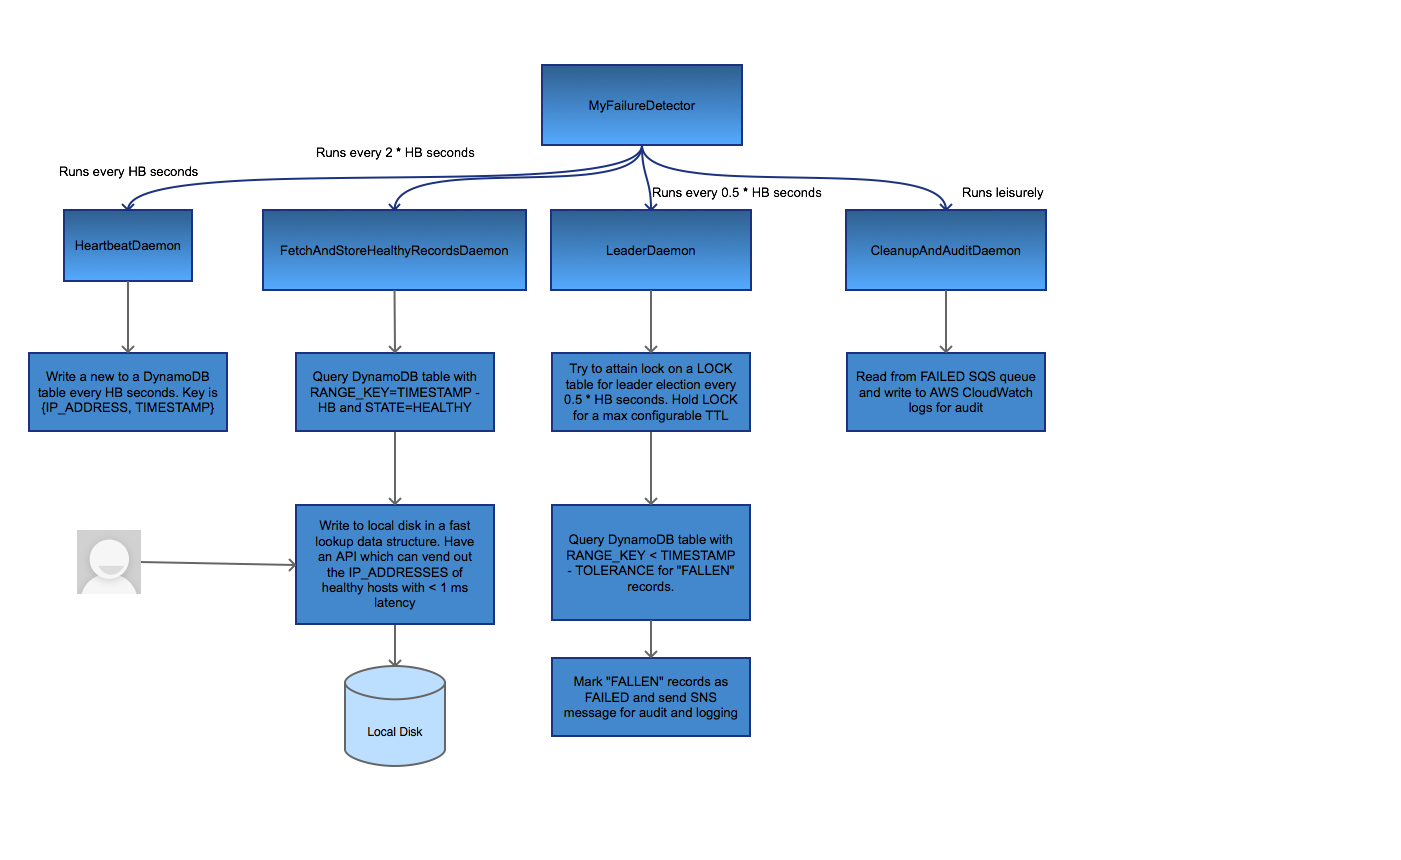
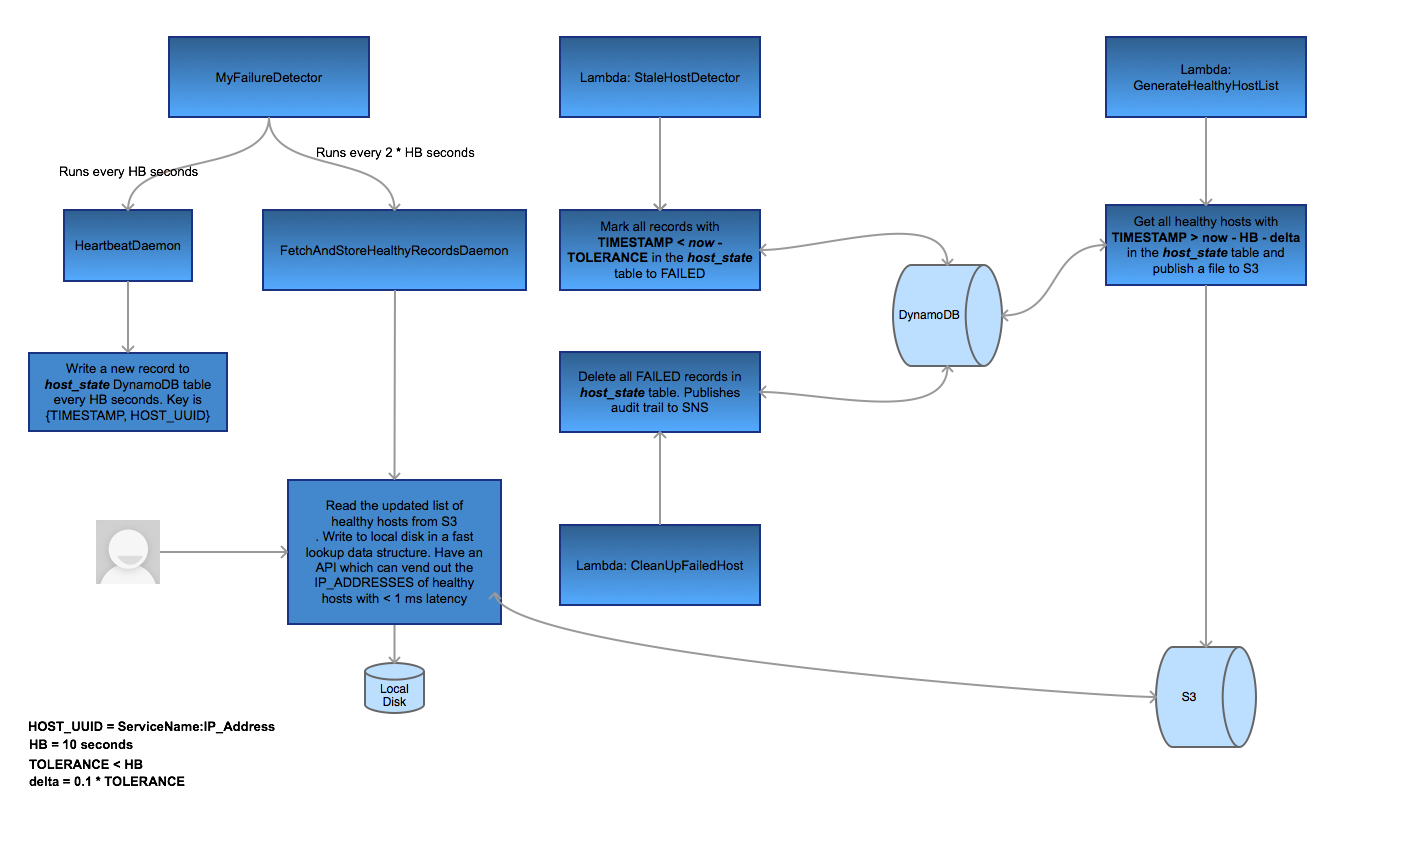
Updated system diagram and readme with lambda and description

diff --git a/README.md b/README.md
@@ -1,21 +1,33 @@
 # MyFailureDetector
-An example of a system to detect healthy host in a clique and get healthy host records with millisecond latencies
+An example of a system to detect healthy host in a clique and get healthy host records with millisecond latencies.
+
+Use case:
+
+Suppose you have a bunch microservices which run in a VPC. Ofcourse, since this is 2018, you run in the cloud. For example: you use AWS. Your service run in a VPC and reach out to public internet to read/write to DynamoDB, S3 and other publicly available services.
+However, to reach out to your internal micro-services (i.e. the ones running in your awesome VPC), there is no need to reach out to the public internet. So, how do you know which machine/host to reach out to for a certain service?
+
+
+Using DNS is an option, but it is static and comes with added latencies for DNS queries. Also, you would have to maintain the updated list of hosts behind the DNS in case your hosts are replaced/terminated etc.
+Since we would need a system to maintain the list of hosts behind DNS, do we even need the DNS? 
+
+Well, the answer is NO. The following example describes, using DynamoDB, S3, AWS Lambda and SNS, a system to maintain a record of healthy hosts in your fleet, such that all your healthy hosts know about all the other healthy hosts in the fleet.  
+
+In comes distributed failure detection and host management. In this system, we assume that AWS is highly available.
 
 ![alt text](https://raw.githubusercontent.com/turbochrgd/MyFailureDetector/master/system-design/MyFailureDetector.png)
 
 
 <h2>Components:</h2>
 
-1. MyFailureDetector : The application itself that heartbeats. Spawns and manages worker threads.
-2. HeartbeatDaemon : Heartbeats into the DynamoDB clique (table). If healthy, will create a new record in DynamoDB. Hash key is IP_ADDRESS and range key is the update timestamp. Will be run by a scheduler every HB (heartbeat) seconds.
-3. FetchAndStoreHealthyRecordsDaemon : Query DyanmoDB clique with RANGE_KEY >= TIMESTAMP - HB and STATE = HEALTHY. Store returned records on non-volatile local disk.
-4. GetHealthyHost API (Not pictured) : Will read the FetchAndStoreHealthyRecords file to maintain a round robin (or health quotient based formula) to return the "best" healthy record to use. Used by clients or users. Will implement this in an upcoming repository.
-5. LeaderDaemon : Keeps the DyanmoDB clique clean by "FAIL"ing all old records. Query DynamoDB clique with RANGE_KEY < TIMESTAMP - TOLERANCE and FAIL then records. Publish SNS notification for cleanup and audit.
-6. CleanupAndAuditDaemon : Reads the "FAIL"ed SNS notifications via SQS and emits logs to CloudWatch
+1. MyFailureDetector : Runs on each of your machine in the VPC. Spawns and manages worker threads: HeartbeatDaemon and FetchAndStoreHealthyRecordsDaemon.
+2. HeartbeatDaemon : Heartbeats into a DynamoDB table. If healthy i.e. running, it will create a new record in DynamoDB. Hash key is the update timestamp and range key is IP_ADDRESS. Will be run by a scheduler every HB (heartbeat) seconds.
+3. FetchAndStoreHealthyRecordsDaemon : Reads the latest healthy records file from S3.  Store returned records on non-volatile local disk.
+4. GetHealthyHost API (Not pictured) : Will read the FetchAndStoreHealthyRecords file to maintain a round robin (or health quotient based formula) to return the "best" healthy record to use. Used by clients or users.
+5. StaleHostDetector Lambda : Lambda to FAIL all old records. Query DynamoDB clique with HASH_KEY < TIMESTAMP - TOLERANCE and FAIL then records. 
+6. GenerateHealthyHostList Lambda : Lambda to generate the latest healthy hosts for your fleet. Reads the DynamoDB table to query records with HASH_KEY > now - HB - delta. Publishes the record list to S3.
+7. CleanupFailedHost Lambda : Removes all FAILED hosts from the DynamoDB table. Keeps the table size small (equivalent to your fleet). Publish SNS notification for cleanup and audit.
 
 <h2>Vocabulary used:</h2>
-
-<strong>Clique</strong> = A set of hosts which were known to be healthy recently
 
 <strong>TIMESTAMP</strong> = the current timestamp in UTC
 
@@ -25,23 +37,10 @@ An example of a system to detect healthy host in a clique and get healthy host r
 
 <strong>HEALTHY</strong> = Host state if the host was able to reach the clique
 
-<strong>FALLEN</strong> = Host state which did not check in with the clique for a certain TOLERANCE interval
-
 <strong>FAILED</strong> = Host state when a host has been removed from the clique
 
 
-<h2>Component workings:</h2>
-
-<strong>HeartbeatDaemon :</strong> Simply write itself in the DynamoDB table. Creates a new record each time with HASH_KEY = IP_ADDRESS and RANGE_KEY = TIMESTAMP. If the DyanmoDB table has a record that is quite old, we will know that host was unable to reach the clique and is possibly unhealthy.
-
-<strong>LeaderDaemon :</strong> Heart beating only writes will records are latest after a certain timestamp. We need to remove all the older records (records with RANGE_KEY < TIMESTAMP + some delta i.e. TOLERANCE) to make sure we remove FALLEN hosts and we don't consume high RCUs during queries for healthy records. Also, older records don't serve any purpose. We need to elect a leader who will clean up the older records. For this purpose, we will use a locking table in DynamoDB. Attaining a lock record in this table which elect a leader. The leader will clean up older records. 
-
-<strong>CleanupAndAuditDaemon :</strong> LeaderDaemon will send FAILED notifications to SNS. The cleanup daemon will create an audit trail and logging in CloudWatch by consuming these notifications.
-
-<strong>FetchAndStoreHealthyRecordsDaemon :</strong> Fetch all the healthy hosts which have checked in to the clique within a certain TOLERANCE. For sake of this design, we will make a thread on the local machine. This job can more efficiently and cheaply run by AWS Lambda.
-
-<strong>GetHealthyHost API :</strong> A restful API to return the "best" healthy host in the clique. This API is used on the localhost only. Implicitly, we cannot reach out to another host to fetch details about which host to communicate to. In real world applications, the User application will reach out to this API on localhost and fetch the healthy hosts in its clique.
-
-
-Next steps: 
-Add CloudWatch log http://boto3.readthedocs.io/en/latest/reference/services/logs.html#CloudWatchLogs.Client.put_log_events
+Further systems:
+1. Tools/system to ingest the SNS notifications fro cleaned up hosts. Systems and monitoring to replace those hosts.
+2. System to create a full loop of host health from the calling service i.e. when a host detects that one of the (other) hosts in the file is not well.  
+3. The services running on the machine to let MyFailureDetector know that they are unhealthy.
